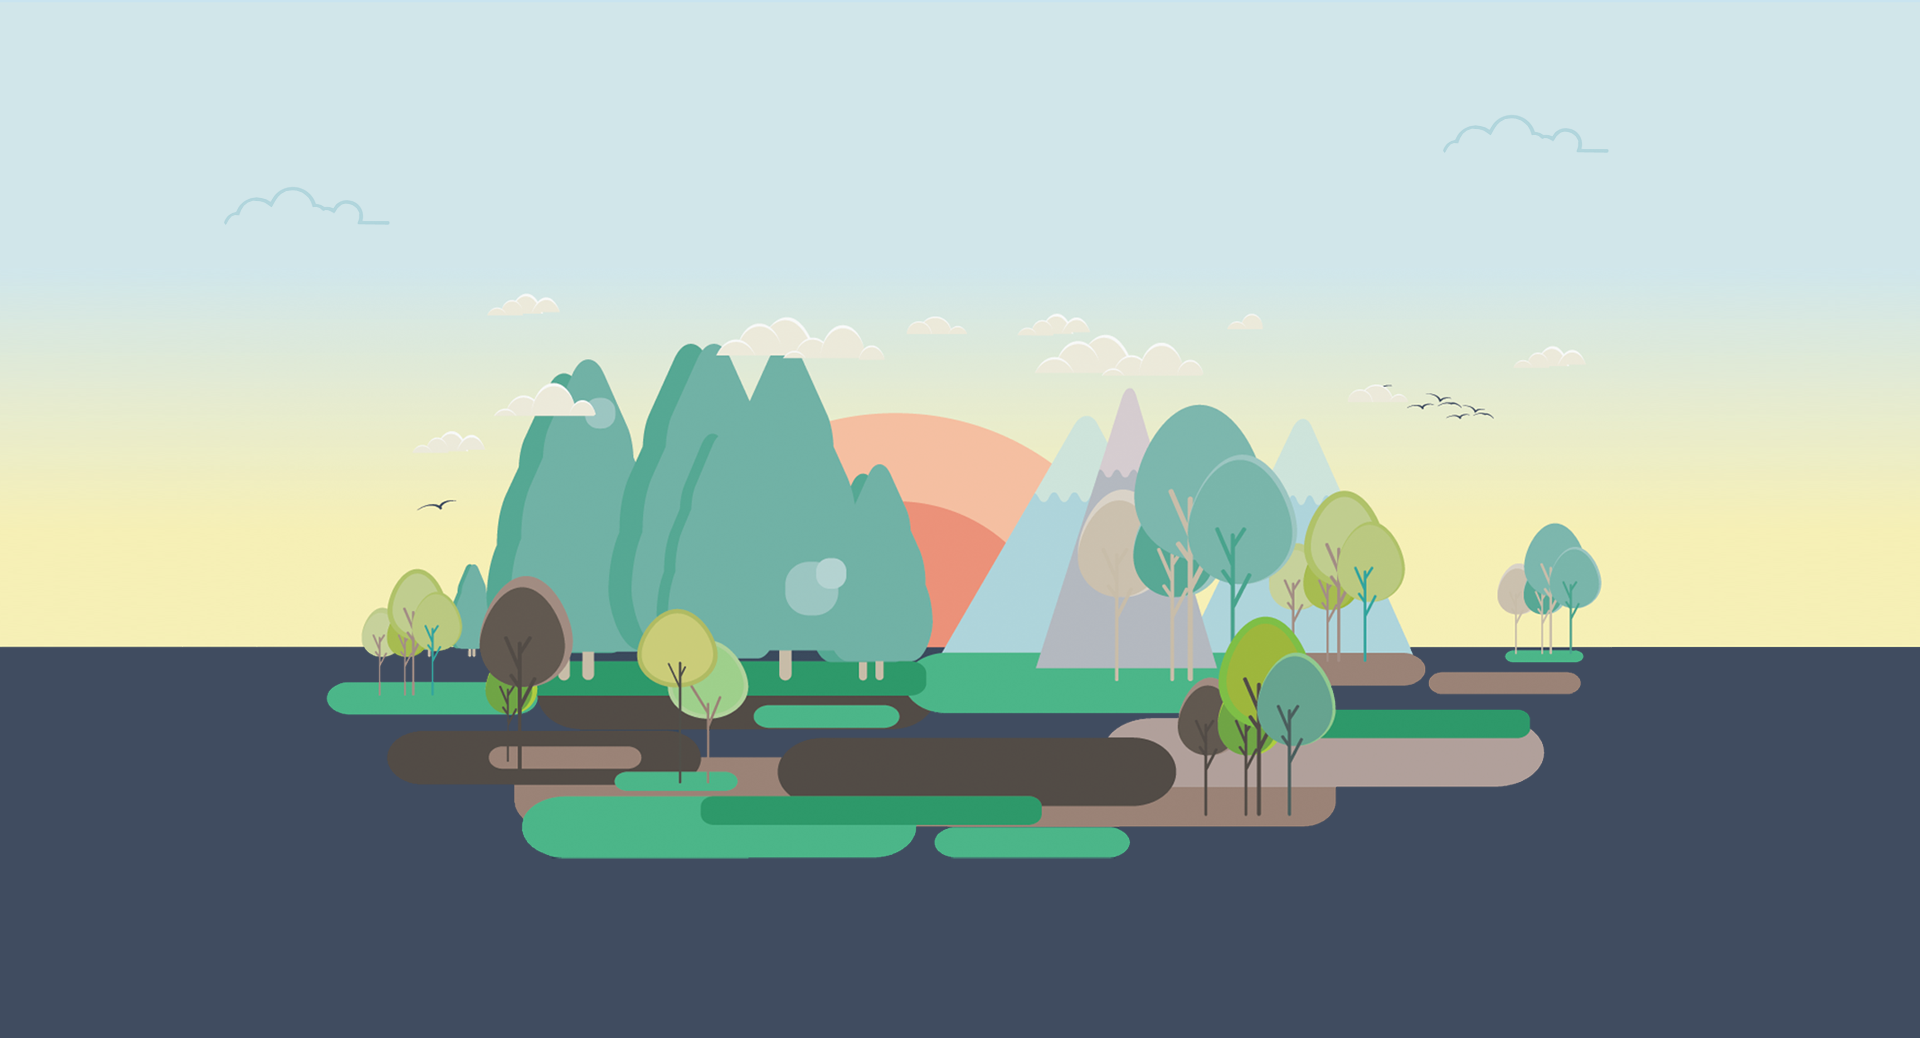
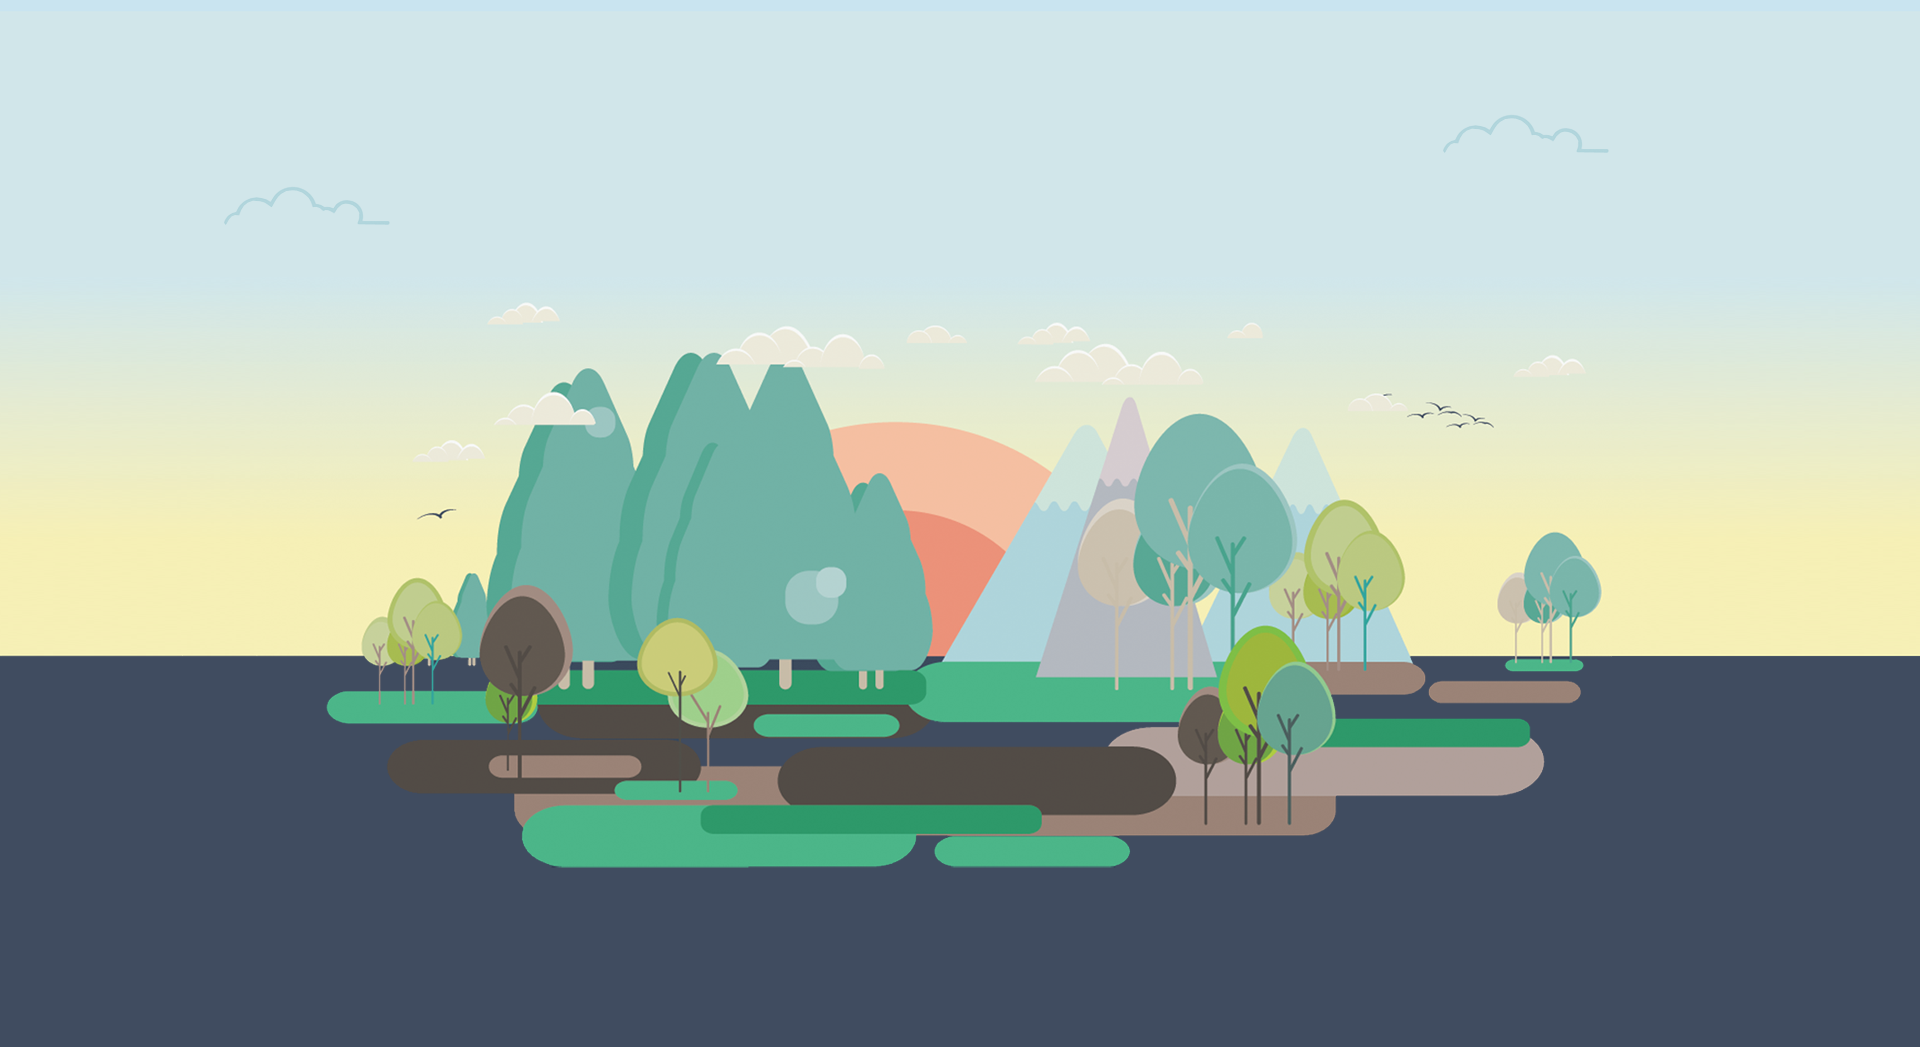
Main section - full adaptive with hover & animation.

diff --git a/src/vendorScript/_shared/parallax.min.js b/src/vendorScript/_shared/parallax.min.js
@@ -1,0 +1,2 @@
+!function(t){if("object"==typeof exports&&"undefined"!=typeof module)module.exports=t();else if("function"==typeof define&&define.amd)define([],t);else{("undefined"!=typeof window?window:"undefined"!=typeof global?global:"undefined"!=typeof self?self:this).Parallax=t()}}(function(){return function t(e,i,n){function o(r,a){if(!i[r]){if(!e[r]){var l="function"==typeof require&&require;if(!a&&l)return l(r,!0);if(s)return s(r,!0);var h=new Error("Cannot find module '"+r+"'");throw h.code="MODULE_NOT_FOUND",h}var u=i[r]={exports:{}};e[r][0].call(u.exports,function(t){var i=e[r][1][t];return o(i||t)},u,u.exports,t,e,i,n)}return i[r].exports}for(var s="function"==typeof require&&require,r=0;r<n.length;r++)o(n[r]);return o}({1:[function(t,e,i){"use strict";function n(t){if(null===t||void 0===t)throw new TypeError("Object.assign cannot be called with null or undefined");return Object(t)}var o=Object.getOwnPropertySymbols,s=Object.prototype.hasOwnProperty,r=Object.prototype.propertyIsEnumerable;e.exports=function(){try{if(!Object.assign)return!1;var t=new String("abc");if(t[5]="de","5"===Object.getOwnPropertyNames(t)[0])return!1;for(var e={},i=0;i<10;i++)e["_"+String.fromCharCode(i)]=i;if("0123456789"!==Object.getOwnPropertyNames(e).map(function(t){return e[t]}).join(""))return!1;var n={};return"abcdefghijklmnopqrst".split("").forEach(function(t){n[t]=t}),"abcdefghijklmnopqrst"===Object.keys(Object.assign({},n)).join("")}catch(t){return!1}}()?Object.assign:function(t,e){for(var i,a,l=n(t),h=1;h<arguments.length;h++){i=Object(arguments[h]);for(var u in i)s.call(i,u)&&(l[u]=i[u]);if(o){a=o(i);for(var c=0;c<a.length;c++)r.call(i,a[c])&&(l[a[c]]=i[a[c]])}}return l}},{}],2:[function(t,e,i){(function(t){(function(){var i,n,o,s,r,a;"undefined"!=typeof performance&&null!==performance&&performance.now?e.exports=function(){return performance.now()}:void 0!==t&&null!==t&&t.hrtime?(e.exports=function(){return(i()-r)/1e6},n=t.hrtime,s=(i=function(){var t;return 1e9*(t=n())[0]+t[1]})(),a=1e9*t.uptime(),r=s-a):Date.now?(e.exports=function(){return Date.now()-o},o=Date.now()):(e.exports=function(){return(new Date).getTime()-o},o=(new Date).getTime())}).call(this)}).call(this,t("_process"))},{_process:3}],3:[function(t,e,i){function n(){throw new Error("setTimeout has not been defined")}function o(){throw new Error("clearTimeout has not been defined")}function s(t){if(c===setTimeout)return setTimeout(t,0);if((c===n||!c)&&setTimeout)return c=setTimeout,setTimeout(t,0);try{return c(t,0)}catch(e){try{return c.call(null,t,0)}catch(e){return c.call(this,t,0)}}}function r(t){if(d===clearTimeout)return clearTimeout(t);if((d===o||!d)&&clearTimeout)return d=clearTimeout,clearTimeout(t);try{return d(t)}catch(e){try{return d.call(null,t)}catch(e){return d.call(this,t)}}}function a(){v&&p&&(v=!1,p.length?f=p.concat(f):y=-1,f.length&&l())}function l(){if(!v){var t=s(a);v=!0;for(var e=f.length;e;){for(p=f,f=[];++y<e;)p&&p[y].run();y=-1,e=f.length}p=null,v=!1,r(t)}}function h(t,e){this.fun=t,this.array=e}function u(){}var c,d,m=e.exports={};!function(){try{c="function"==typeof setTimeout?setTimeout:n}catch(t){c=n}try{d="function"==typeof clearTimeout?clearTimeout:o}catch(t){d=o}}();var p,f=[],v=!1,y=-1;m.nextTick=function(t){var e=new Array(arguments.length-1);if(arguments.length>1)for(var i=1;i<arguments.length;i++)e[i-1]=arguments[i];f.push(new h(t,e)),1!==f.length||v||s(l)},h.prototype.run=function(){this.fun.apply(null,this.array)},m.title="browser",m.browser=!0,m.env={},m.argv=[],m.version="",m.versions={},m.on=u,m.addListener=u,m.once=u,m.off=u,m.removeListener=u,m.removeAllListeners=u,m.emit=u,m.prependListener=u,m.prependOnceListener=u,m.listeners=function(t){return[]},m.binding=function(t){throw new Error("process.binding is not supported")},m.cwd=function(){return"/"},m.chdir=function(t){throw new Error("process.chdir is not supported")},m.umask=function(){return 0}},{}],4:[function(t,e,i){(function(i){for(var n=t("performance-now"),o="undefined"==typeof window?i:window,s=["moz","webkit"],r="AnimationFrame",a=o["request"+r],l=o["cancel"+r]||o["cancelRequest"+r],h=0;!a&&h<s.length;h++)a=o[s[h]+"Request"+r],l=o[s[h]+"Cancel"+r]||o[s[h]+"CancelRequest"+r];if(!a||!l){var u=0,c=0,d=[];a=function(t){if(0===d.length){var e=n(),i=Math.max(0,1e3/60-(e-u));u=i+e,setTimeout(function(){var t=d.slice(0);d.length=0;for(var e=0;e<t.length;e++)if(!t[e].cancelled)try{t[e].callback(u)}catch(t){setTimeout(function(){throw t},0)}},Math.round(i))}return d.push({handle:++c,callback:t,cancelled:!1}),c},l=function(t){for(var e=0;e<d.length;e++)d[e].handle===t&&(d[e].cancelled=!0)}}e.exports=function(t){return a.call(o,t)},e.exports.cancel=function(){l.apply(o,arguments)},e.exports.polyfill=function(){o.requestAnimationFrame=a,o.cancelAnimationFrame=l}}).call(this,"undefined"!=typeof global?global:"undefined"!=typeof self?self:"undefined"!=typeof window?window:{})},{"performance-now":2}],5:[function(t,e,i){"use strict";function n(t,e){if(!(t instanceof e))throw new TypeError("Cannot call a class as a function")}var o=function(){function t(t,e){for(var i=0;i<e.length;i++){var n=e[i];n.enumerable=n.enumerable||!1,n.configurable=!0,"value"in n&&(n.writable=!0),Object.defineProperty(t,n.key,n)}}return function(e,i,n){return i&&t(e.prototype,i),n&&t(e,n),e}}(),s=t("raf"),r=t("object-assign"),a={propertyCache:{},vendors:[null,["-webkit-","webkit"],["-moz-","Moz"],["-o-","O"],["-ms-","ms"]],clamp:function(t,e,i){return e<i?t<e?e:t>i?i:t:t<i?i:t>e?e:t},data:function(t,e){return a.deserialize(t.getAttribute("data-"+e))},deserialize:function(t){return"true"===t||"false"!==t&&("null"===t?null:!isNaN(parseFloat(t))&&isFinite(t)?parseFloat(t):t)},camelCase:function(t){return t.replace(/-+(.)?/g,function(t,e){return e?e.toUpperCase():""})},accelerate:function(t){a.css(t,"transform","translate3d(0,0,0) rotate(0.0001deg)"),a.css(t,"transform-style","preserve-3d"),a.css(t,"backface-visibility","hidden")},transformSupport:function(t){for(var e=document.createElement("div"),i=!1,n=null,o=!1,s=null,r=null,l=0,h=a.vendors.length;l<h;l++)if(null!==a.vendors[l]?(s=a.vendors[l][0]+"transform",r=a.vendors[l][1]+"Transform"):(s="transform",r="transform"),void 0!==e.style[r]){i=!0;break}switch(t){case"2D":o=i;break;case"3D":if(i){var u=document.body||document.createElement("body"),c=document.documentElement,d=c.style.overflow,m=!1;document.body||(m=!0,c.style.overflow="hidden",c.appendChild(u),u.style.overflow="hidden",u.style.background=""),u.appendChild(e),e.style[r]="translate3d(1px,1px,1px)",o=void 0!==(n=window.getComputedStyle(e).getPropertyValue(s))&&n.length>0&&"none"!==n,c.style.overflow=d,u.removeChild(e),m&&(u.removeAttribute("style"),u.parentNode.removeChild(u))}}return o},css:function(t,e,i){var n=a.propertyCache[e];if(!n)for(var o=0,s=a.vendors.length;o<s;o++)if(n=null!==a.vendors[o]?a.camelCase(a.vendors[o][1]+"-"+e):e,void 0!==t.style[n]){a.propertyCache[e]=n;break}t.style[n]=i}},l={relativeInput:!1,clipRelativeInput:!1,inputElement:null,hoverOnly:!1,calibrationThreshold:100,calibrationDelay:500,supportDelay:500,calibrateX:!1,calibrateY:!0,invertX:!0,invertY:!0,limitX:!1,limitY:!1,scalarX:10,scalarY:10,frictionX:.1,frictionY:.1,originX:.5,originY:.5,pointerEvents:!1,precision:1,onReady:null,selector:null},h=function(){function t(e,i){n(this,t),this.element=e;var o={calibrateX:a.data(this.element,"calibrate-x"),calibrateY:a.data(this.element,"calibrate-y"),invertX:a.data(this.element,"invert-x"),invertY:a.data(this.element,"invert-y"),limitX:a.data(this.element,"limit-x"),limitY:a.data(this.element,"limit-y"),scalarX:a.data(this.element,"scalar-x"),scalarY:a.data(this.element,"scalar-y"),frictionX:a.data(this.element,"friction-x"),frictionY:a.data(this.element,"friction-y"),originX:a.data(this.element,"origin-x"),originY:a.data(this.element,"origin-y"),pointerEvents:a.data(this.element,"pointer-events"),precision:a.data(this.element,"precision"),relativeInput:a.data(this.element,"relative-input"),clipRelativeInput:a.data(this.element,"clip-relative-input"),hoverOnly:a.data(this.element,"hover-only"),inputElement:document.querySelector(a.data(this.element,"input-element")),selector:a.data(this.element,"selector")};for(var s in o)null===o[s]&&delete o[s];r(this,l,o,i),this.inputElement||(this.inputElement=this.element),this.calibrationTimer=null,this.calibrationFlag=!0,this.enabled=!1,this.depthsX=[],this.depthsY=[],this.raf=null,this.bounds=null,this.elementPositionX=0,this.elementPositionY=0,this.elementWidth=0,this.elementHeight=0,this.elementCenterX=0,this.elementCenterY=0,this.elementRangeX=0,this.elementRangeY=0,this.calibrationX=0,this.calibrationY=0,this.inputX=0,this.inputY=0,this.motionX=0,this.motionY=0,this.velocityX=0,this.velocityY=0,this.onMouseMove=this.onMouseMove.bind(this),this.onDeviceOrientation=this.onDeviceOrientation.bind(this),this.onDeviceMotion=this.onDeviceMotion.bind(this),this.onOrientationTimer=this.onOrientationTimer.bind(this),this.onMotionTimer=this.onMotionTimer.bind(this),this.onCalibrationTimer=this.onCalibrationTimer.bind(this),this.onAnimationFrame=this.onAnimationFrame.bind(this),this.onWindowResize=this.onWindowResize.bind(this),this.windowWidth=null,this.windowHeight=null,this.windowCenterX=null,this.windowCenterY=null,this.windowRadiusX=null,this.windowRadiusY=null,this.portrait=!1,this.desktop=!navigator.userAgent.match(/(iPhone|iPod|iPad|Android|BlackBerry|BB10|mobi|tablet|opera mini|nexus 7)/i),this.motionSupport=!!window.DeviceMotionEvent&&!this.desktop,this.orientationSupport=!!window.DeviceOrientationEvent&&!this.desktop,this.orientationStatus=0,this.motionStatus=0,this.initialise()}return o(t,[{key:"initialise",value:function(){void 0===this.transform2DSupport&&(this.transform2DSupport=a.transformSupport("2D"),this.transform3DSupport=a.transformSupport("3D")),this.transform3DSupport&&a.accelerate(this.element),"static"===window.getComputedStyle(this.element).getPropertyValue("position")&&(this.element.style.position="relative"),this.pointerEvents||(this.element.style.pointerEvents="none"),this.updateLayers(),this.updateDimensions(),this.enable(),this.queueCalibration(this.calibrationDelay)}},{key:"doReadyCallback",value:function(){this.onReady&&this.onReady()}},{key:"updateLayers",value:function(){this.selector?this.layers=this.element.querySelectorAll(this.selector):this.layers=this.element.children,this.layers.length||console.warn("ParallaxJS: Your scene does not have any layers."),this.depthsX=[],this.depthsY=[];for(var t=0;t<this.layers.length;t++){var e=this.layers[t];this.transform3DSupport&&a.accelerate(e),e.style.position=t?"absolute":"relative",e.style.display="block",e.style.left=0,e.style.top=0;var i=a.data(e,"depth")||0;this.depthsX.push(a.data(e,"depth-x")||i),this.depthsY.push(a.data(e,"depth-y")||i)}}},{key:"updateDimensions",value:function(){this.windowWidth=window.innerWidth,this.windowHeight=window.innerHeight,this.windowCenterX=this.windowWidth*this.originX,this.windowCenterY=this.windowHeight*this.originY,this.windowRadiusX=Math.max(this.windowCenterX,this.windowWidth-this.windowCenterX),this.windowRadiusY=Math.max(this.windowCenterY,this.windowHeight-this.windowCenterY)}},{key:"updateBounds",value:function(){this.bounds=this.inputElement.getBoundingClientRect(),this.elementPositionX=this.bounds.left,this.elementPositionY=this.bounds.top,this.elementWidth=this.bounds.width,this.elementHeight=this.bounds.height,this.elementCenterX=this.elementWidth*this.originX,this.elementCenterY=this.elementHeight*this.originY,this.elementRangeX=Math.max(this.elementCenterX,this.elementWidth-this.elementCenterX),this.elementRangeY=Math.max(this.elementCenterY,this.elementHeight-this.elementCenterY)}},{key:"queueCalibration",value:function(t){clearTimeout(this.calibrationTimer),this.calibrationTimer=setTimeout(this.onCalibrationTimer,t)}},{key:"enable",value:function(){this.enabled||(this.enabled=!0,this.orientationSupport?(this.portrait=!1,window.addEventListener("deviceorientation",this.onDeviceOrientation),this.detectionTimer=setTimeout(this.onOrientationTimer,this.supportDelay)):this.motionSupport?(this.portrait=!1,window.addEventListener("devicemotion",this.onDeviceMotion),this.detectionTimer=setTimeout(this.onMotionTimer,this.supportDelay)):(this.calibrationX=0,this.calibrationY=0,this.portrait=!1,window.addEventListener("mousemove",this.onMouseMove),this.doReadyCallback()),window.addEventListener("resize",this.onWindowResize),this.raf=s(this.onAnimationFrame))}},{key:"disable",value:function(){this.enabled&&(this.enabled=!1,this.orientationSupport?window.removeEventListener("deviceorientation",this.onDeviceOrientation):this.motionSupport?window.removeEventListener("devicemotion",this.onDeviceMotion):window.removeEventListener("mousemove",this.onMouseMove),window.removeEventListener("resize",this.onWindowResize),s.cancel(this.raf))}},{key:"calibrate",value:function(t,e){this.calibrateX=void 0===t?this.calibrateX:t,this.calibrateY=void 0===e?this.calibrateY:e}},{key:"invert",value:function(t,e){this.invertX=void 0===t?this.invertX:t,this.invertY=void 0===e?this.invertY:e}},{key:"friction",value:function(t,e){this.frictionX=void 0===t?this.frictionX:t,this.frictionY=void 0===e?this.frictionY:e}},{key:"scalar",value:function(t,e){this.scalarX=void 0===t?this.scalarX:t,this.scalarY=void 0===e?this.scalarY:e}},{key:"limit",value:function(t,e){this.limitX=void 0===t?this.limitX:t,this.limitY=void 0===e?this.limitY:e}},{key:"origin",value:function(t,e){this.originX=void 0===t?this.originX:t,this.originY=void 0===e?this.originY:e}},{key:"setInputElement",value:function(t){this.inputElement=t,this.updateDimensions()}},{key:"setPosition",value:function(t,e,i){e=e.toFixed(this.precision)+"px",i=i.toFixed(this.precision)+"px",this.transform3DSupport?a.css(t,"transform","translate3d("+e+","+i+",0)"):this.transform2DSupport?a.css(t,"transform","translate("+e+","+i+")"):(t.style.left=e,t.style.top=i)}},{key:"onOrientationTimer",value:function(){this.orientationSupport&&0===this.orientationStatus?(this.disable(),this.orientationSupport=!1,this.enable()):this.doReadyCallback()}},{key:"onMotionTimer",value:function(){this.motionSupport&&0===this.motionStatus?(this.disable(),this.motionSupport=!1,this.enable()):this.doReadyCallback()}},{key:"onCalibrationTimer",value:function(){this.calibrationFlag=!0}},{key:"onWindowResize",value:function(){this.updateDimensions()}},{key:"onAnimationFrame",value:function(){this.updateBounds();var t=this.inputX-this.calibrationX,e=this.inputY-this.calibrationY;(Math.abs(t)>this.calibrationThreshold||Math.abs(e)>this.calibrationThreshold)&&this.queueCalibration(0),this.portrait?(this.motionX=this.calibrateX?e:this.inputY,this.motionY=this.calibrateY?t:this.inputX):(this.motionX=this.calibrateX?t:this.inputX,this.motionY=this.calibrateY?e:this.inputY),this.motionX*=this.elementWidth*(this.scalarX/100),this.motionY*=this.elementHeight*(this.scalarY/100),isNaN(parseFloat(this.limitX))||(this.motionX=a.clamp(this.motionX,-this.limitX,this.limitX)),isNaN(parseFloat(this.limitY))||(this.motionY=a.clamp(this.motionY,-this.limitY,this.limitY)),this.velocityX+=(this.motionX-this.velocityX)*this.frictionX,this.velocityY+=(this.motionY-this.velocityY)*this.frictionY;for(var i=0;i<this.layers.length;i++){var n=this.layers[i],o=this.depthsX[i],r=this.depthsY[i],l=this.velocityX*(o*(this.invertX?-1:1)),h=this.velocityY*(r*(this.invertY?-1:1));this.setPosition(n,l,h)}this.raf=s(this.onAnimationFrame)}},{key:"rotate",value:function(t,e){var i=(t||0)/30,n=(e||0)/30,o=this.windowHeight>this.windowWidth;this.portrait!==o&&(this.portrait=o,this.calibrationFlag=!0),this.calibrationFlag&&(this.calibrationFlag=!1,this.calibrationX=i,this.calibrationY=n),this.inputX=i,this.inputY=n}},{key:"onDeviceOrientation",value:function(t){var e=t.beta,i=t.gamma;null!==e&&null!==i&&(this.orientationStatus=1,this.rotate(e,i))}},{key:"onDeviceMotion",value:function(t){var e=t.rotationRate.beta,i=t.rotationRate.gamma;null!==e&&null!==i&&(this.motionStatus=1,this.rotate(e,i))}},{key:"onMouseMove",value:function(t){var e=t.clientX,i=t.clientY;if(this.hoverOnly&&(e<this.elementPositionX||e>this.elementPositionX+this.elementWidth||i<this.elementPositionY||i>this.elementPositionY+this.elementHeight))return this.inputX=0,void(this.inputY=0);this.relativeInput?(this.clipRelativeInput&&(e=Math.max(e,this.elementPositionX),e=Math.min(e,this.elementPositionX+this.elementWidth),i=Math.max(i,this.elementPositionY),i=Math.min(i,this.elementPositionY+this.elementHeight)),this.elementRangeX&&this.elementRangeY&&(this.inputX=(e-this.elementPositionX-this.elementCenterX)/this.elementRangeX,this.inputY=(i-this.elementPositionY-this.elementCenterY)/this.elementRangeY)):this.windowRadiusX&&this.windowRadiusY&&(this.inputX=(e-this.windowCenterX)/this.windowRadiusX,this.inputY=(i-this.windowCenterY)/this.windowRadiusY)}},{key:"destroy",value:function(){this.disable(),clearTimeout(this.calibrationTimer),clearTimeout(this.detectionTimer),this.element.removeAttribute("style");for(var t=0;t<this.layers.length;t++)this.layers[t].removeAttribute("style");delete this.element,delete this.layers}},{key:"version",value:function(){return"3.1.0"}}]),t}();e.exports=h},{"object-assign":1,raf:4}]},{},[5])(5)});
+//# sourceMappingURL=parallax.min.js.map

diff --git a/src/scss/_components/_main.scss b/src/scss/_components/_main.scss
@@ -3,7 +3,7 @@
 .main {
   overflow: hidden;
   position: relative;
-  min-height: 1177px;
+  //min-height: 1177px;
 
   &__bg {
     z-index: 0;
@@ -12,6 +12,18 @@
     left: 0;
     width: 100%;
     height: 100%;
+
+    #main__bg {
+      z-index: 1;
+      position: absolute;
+      top: -80px;
+      left: 0;
+      width: 100%;
+      height: 100%;
+      @include respond(max-small) {
+        display: none;
+      }
+    }
 
 
     &:after,
@@ -30,6 +42,9 @@
       background-repeat: no-repeat;
       background-position: center top;
       background-size: contain;
+      @include respond(max-small) {
+        display: none;
+      }
     }
 
     &:after {
@@ -39,7 +54,7 @@
       background-color: $c-404c60;
     }
 
-    img {
+    &--bottom {
       z-index: 0;
       position: absolute;
       left: 0;
@@ -47,6 +62,18 @@
       width: 100%;
       height: 160px;
       object-fit: cover;
+      object-position: center;
+    }
+
+    &--ppl-0,
+    &--ppl-1 {
+      z-index: 1;
+      position: absolute;
+      top: 0;
+      left: 0;
+      width: 100%;
+      height: 100%;
+      object-fit: contain;
       object-position: center;
     }
   }
@@ -63,37 +90,34 @@
   }
 
   &__title {
-    padding-top: 225px;
-    padding-bottom: 21px;
+    padding-top: 205px;
+    padding-bottom: 615px;
     color: $c-2a4b64;
     text-align: center;
     line-height: 1.2;
     font-size: 40px;
     font-weight: 300;
+    @include respond(max-hd) {
+      padding-top: 155px;
+      padding-bottom: 525px;
+    }
+    @include respond(max-wide-small) {
+      padding-top: 125px;
+      padding-bottom: 475px;
+    }
+    @include respond(max-large) {
+      padding-top: 95px;
+      padding-bottom: 335px;
+      font-size: 35px;
+    }
     @include respond(max-large) {
       padding-top: 125px;
       font-size: 35px;
     }
-  }
-
-  &__img {
-    vertical-align: top;
-
-    &-wrapper {
-      position: relative;
-      padding-bottom: 83px;
-      text-align: center;
-      @include respond(max-large) {
-        padding-bottom: 43px;
-      }
-    }
-
-    &:nth-child(1) {
-      margin-top: 100px;
-      margin-right: -40px;
-    }
-    &:nth-child(2) {
-      margin-left: -40px;
+    @include respond(max-small) {
+      color: $c-white;
+      font-size: 30px;
+      padding-bottom: 100px;
     }
   }
 
@@ -102,6 +126,9 @@
     color: $c-white;
     font-size: 18px;
     font-weight: 300;
+    @include respond(max-small) {
+      font-size: 16px;
+    }
 
     &-wrapper {
       position: relative;
@@ -126,11 +153,14 @@
     &-more {
       display: block;
       padding-top: 43px;
-      padding-bottom: 40px;
+      padding-bottom: 100px;
       color: $c-4cf6ae;
       text-align: center;
       font-size: 17px;
       font-family: "Armata", "Montserrat", sans-serif;
+      @include respond(max-small) {
+        font-size: 15px;
+      }
     }
   }
 }

diff --git a/src/js/_document/indexJquery.js b/src/js/_document/indexJquery.js
@@ -31,6 +31,18 @@ $(document).ready((ev) => {
   };
 
 
+  /**
+   * @initParallaxAnimation
+   */
+  const initParallaxAnimation = () => {
+    const parallaxImg = document.querySelector("#main__bg");
+
+    if(parallaxImg) {
+      new Parallax(parallaxImg);
+    }
+  };
+
+
 
   /**
    * @description Init all method
@@ -44,6 +56,7 @@ $(document).ready((ev) => {
     initPopups();
     // callback
     initMoreMainBtn();
+    initParallaxAnimation();
   };
   initJquery();
 });

diff --git a/src/scss/_utilities/_mixin.scss b/src/scss/_utilities/_mixin.scss
@@ -194,6 +194,7 @@ $breakpointsMedia: (
 	wide-medium     	: "(min-width: 1440px)",	/// wide-medium
 	max-wide-medium 	: "(max-width: 1599px)",
 	wide-large      	: "(min-width: 1600px)",	/// wide-large
+	max-hd        		: "(max-width: 1919px)",
 	hd        				: "(min-width: 1920px)"
 ) !default;
 

diff --git a/src/vendorScript/vendor.js b/src/vendorScript/vendor.js
@@ -6,5 +6,6 @@
 * - jQuery;
 * - Swiper;
 * - magnific-popup;
+* - parallax.min.js;
 *
 * */
